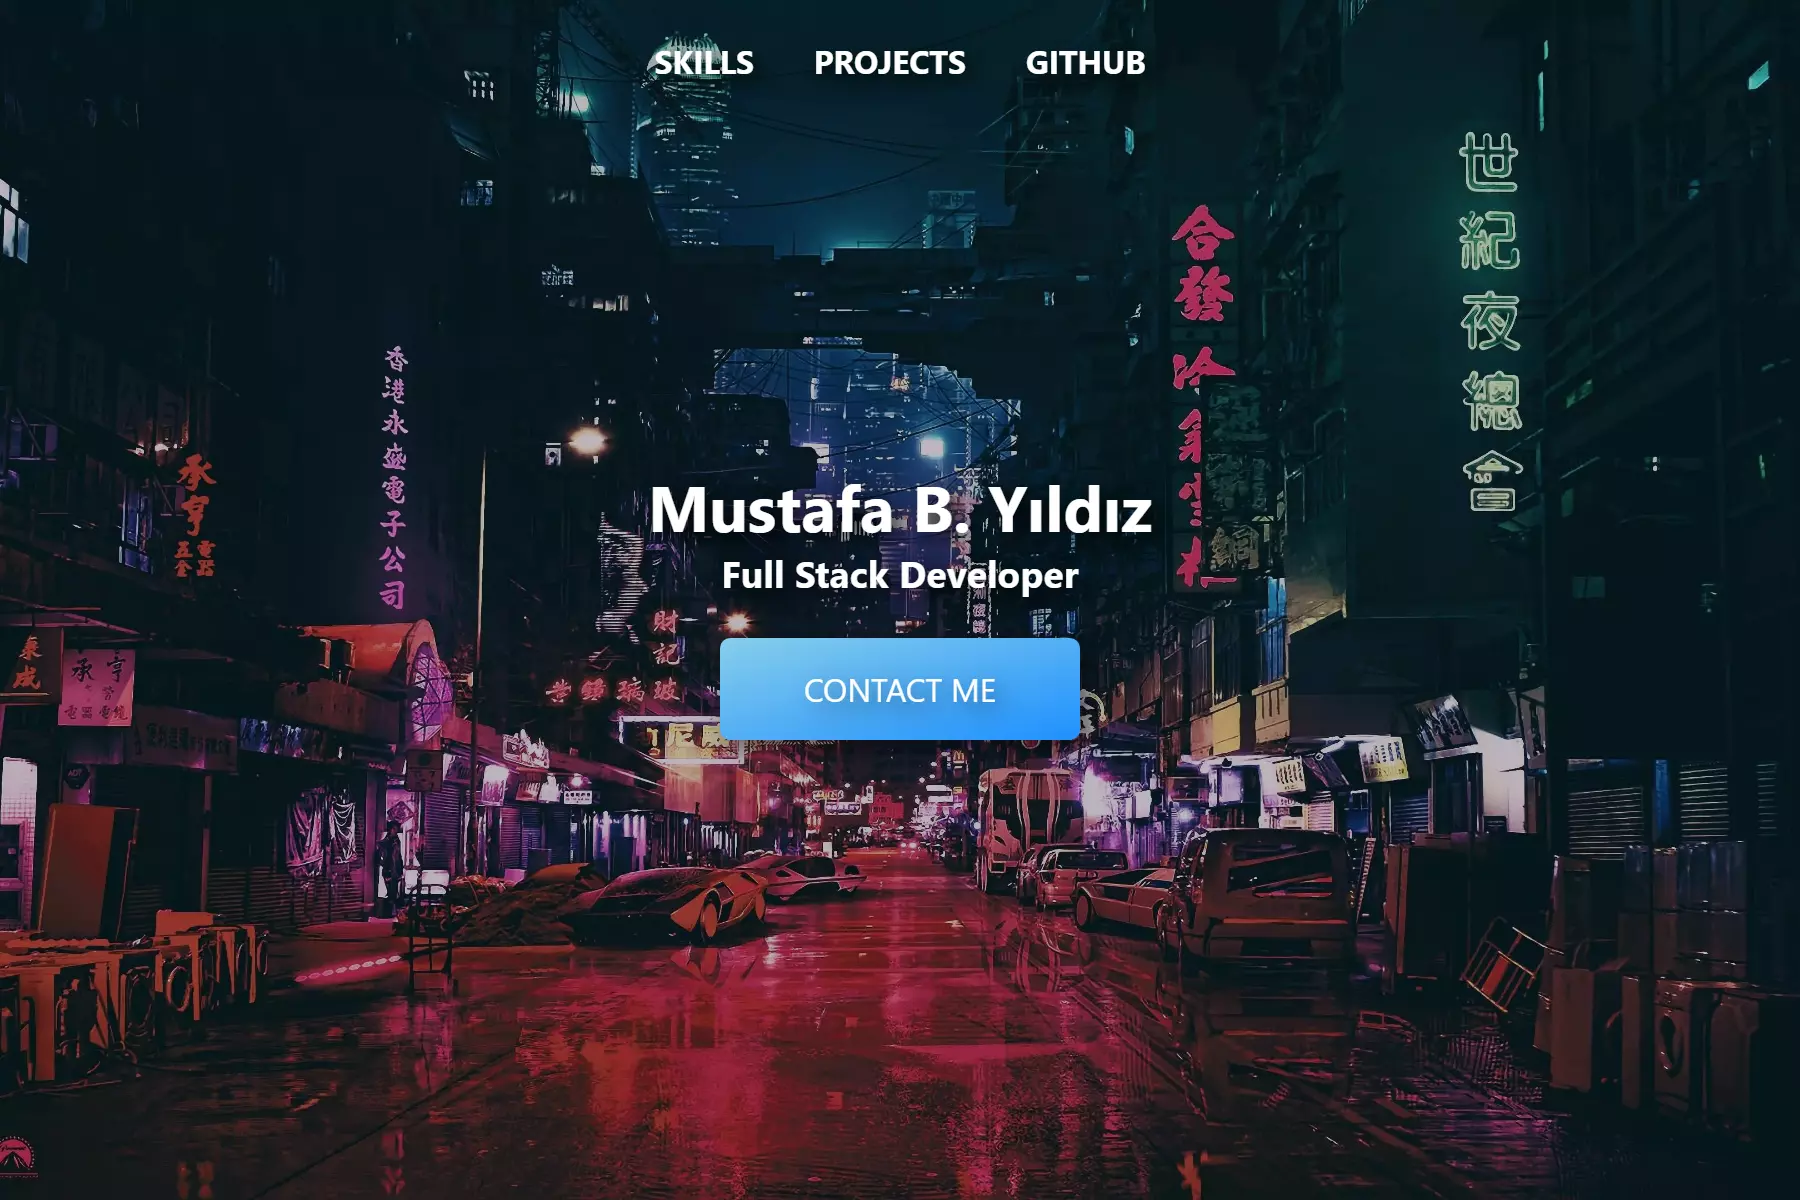
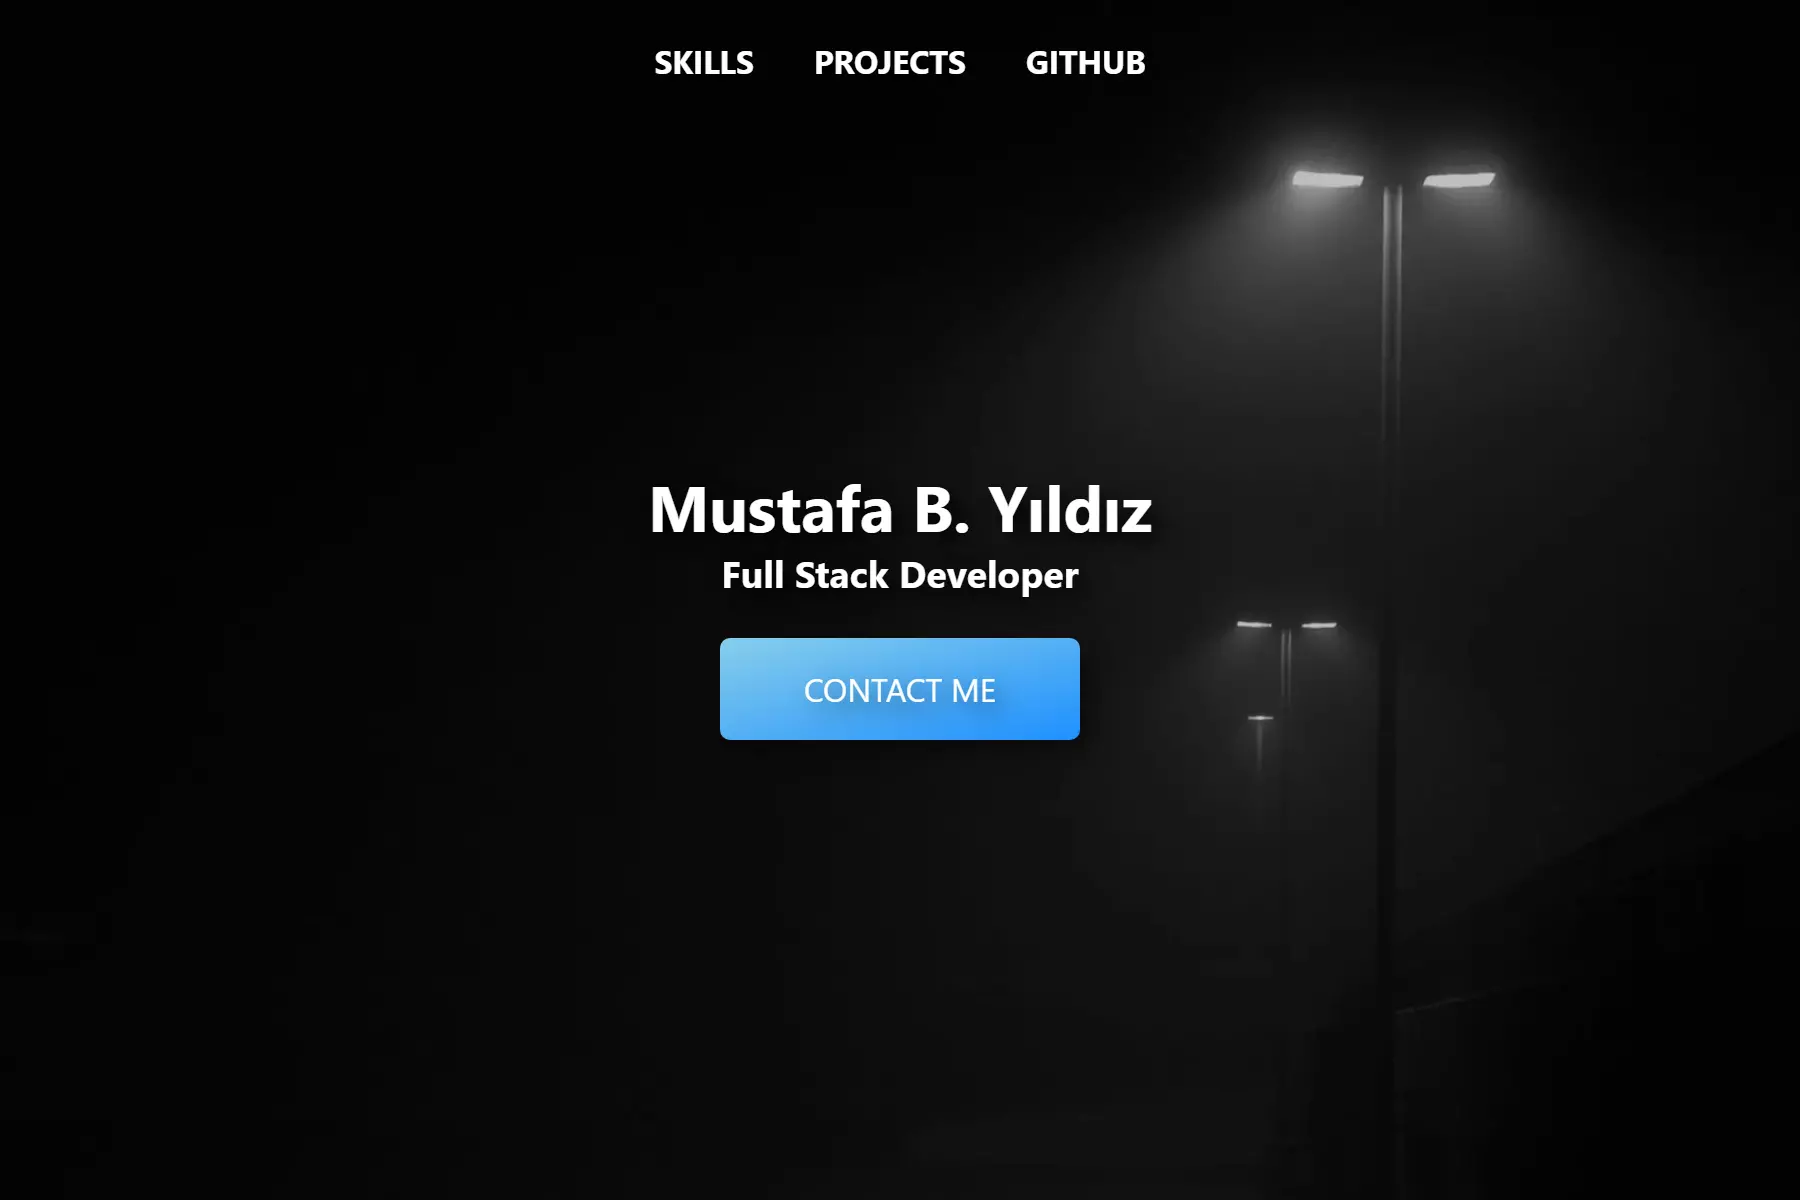
Update wlp and re-design projects

diff --git a/public/styles/critical.css b/public/styles/critical.css
@@ -1,1 +1,1 @@
-*{margin:0px;padding:0px;outline:none;font-family:-apple-system,BlinkMacSystemFont,"Segoe UI",Roboto,Oxygen,Ubuntu,Cantarell,"Open Sans","Helvetica Neue",sans-serif;transition:.25s,text-shadow 0s}html,body{scroll-behavior:smooth;color:#444}section{margin:50px 0px;padding-top:100px;padding-bottom:20px}section>h3{text-align:center;font-size:30px}a{text-decoration:none}header{background:url("../images/wallpaper.webp") no-repeat center/cover;background-attachment:fixed}header div{display:flex;flex-direction:column;align-items:center;justify-content:center;height:100vh;background:rgba(0,0,0,.25);text-shadow:4px 4px 11px #000;text-align:center;color:#fff}header div a{margin-top:20px;padding:15px 40px;width:100px;background:linear-gradient(to bottom right, skyblue, dodgerblue);text-shadow:4px 4px 11px rgba(0,0,0,.5);box-shadow:4px 4px 11px rgba(0,0,0,.5);border-radius:5px;color:inherit}header div a:hover{filter:brightness(120%)}nav{position:fixed;display:flex;align-items:center;justify-content:center;width:100vw;z-index:1001;text-shadow:4px 4px 11px #000}nav a{padding:20px 15px;font-weight:bold;color:#fff}nav a:hover{background:#fff;color:#1e90ff;text-shadow:none}nav.bg{background:#1e90ff;box-shadow:0px 4px 11px rgba(0,0,0,.15);color:#fff;text-shadow:none}
+*{margin:0px;padding:0px;outline:none;font-family:-apple-system,BlinkMacSystemFont,"Segoe UI",Roboto,Oxygen,Ubuntu,Cantarell,"Open Sans","Helvetica Neue",sans-serif;transition:.25s,text-shadow 0s}html,body{scroll-behavior:smooth;color:#444}section{margin:50px 0px;padding-top:100px;padding-bottom:20px}section>h3{text-align:center;font-size:30px}a{text-decoration:none}header{background:url("../images/wallpaper.webp") no-repeat center/cover;background-attachment:fixed}header div{display:flex;flex-direction:column;align-items:center;justify-content:center;height:100vh;background:rgba(0,0,0,.25);text-shadow:4px 4px 11px #000;text-align:center;color:#fff}header div a{margin-top:20px;padding:15px 40px;width:100px;background:linear-gradient(to bottom right, skyblue, dodgerblue);text-shadow:4px 4px 11px rgba(0,0,0,.5);box-shadow:4px 4px 11px rgba(0,0,0,.5);border-radius:5px;color:inherit}header div a:hover{filter:brightness(120%)}nav{position:fixed;display:flex;align-items:center;justify-content:center;width:100vw;z-index:1001;text-shadow:4px 4px 11px #000}nav a{padding:20px 15px;font-weight:bold;color:#fff}nav a:hover{background:#fff;color:#1e90ff;text-shadow:none}nav.bg{background:#222;box-shadow:0px 4px 11px rgba(0,0,0,.15);color:#fff;text-shadow:none}

diff --git a/public/styles/projects.sass b/public/styles/projects.sass
@@ -8,17 +8,17 @@
 			display: grid
 			margin: 10px
 			width: calc(100% - 20px)
-			box-shadow: 2px 2px 4px rgba(0, 0, 0, 0.2)
+			border: 1px solid #cecece
+			border-radius: 3px
 			text-align: center
 
 			img
 				width: 100%
 
 			h4
-				padding: 5px 0px
+				padding: 10px
 				font-weight: 600
 				font-size: 22px
-				cursor: pointer
 				text-decoration: underline
 
 			p
@@ -26,27 +26,30 @@
 				font-weight: 300
 
 			div
-				display: grid
+				display: flex
+				flex-direction: row-reverse
 				grid-template-columns: 50% 50%
+				grid-gap: 10px
 				justify-content: center
-				margin-top: 10px
+				margin: 15px
 
 				a
-					padding: 5px
-					color: white
+					margin: 0px 5px
+					padding: 10px 30px
+					font-size: 12px
+					text-transform: uppercase
+					border-radius: 30px
 
 				a:hover
 					filter: brightness(120%)
 
 				a.source
-					background: dodgerblue
+					padding: 10px
+					color: #222
 
 				a.demo
-					background: tomato
-
-		.project:hover
-			transform: scale(1.005)
-			box-shadow: 4px 4px 11px rgba(0, 0, 0, 0.4)
+					color: white
+					background: linear-gradient(to bottom right, #333, #222)
 
 @media only screen and (min-width: 768px)
 	#projects .grid

diff --git a/index.js b/index.js
@@ -48,5 +48,5 @@ app.get('/', (req, res) =>
 
 
 // listen
-const PORT = process.env.PORT || 8000
+const PORT = process.env.PORT || 8080
 app.listen(PORT, () => console.log(`Listening on http://localhost:${PORT}/`))

diff --git a/public/styles/critical.sass b/public/styles/critical.sass
@@ -69,7 +69,7 @@ nav
 		text-shadow: none
 
 nav.bg
-	background: dodgerblue
+	background: #222
 	box-shadow: 0px 4px 11px rgba(0, 0, 0, .15)
 	color: white
 	text-shadow: none
